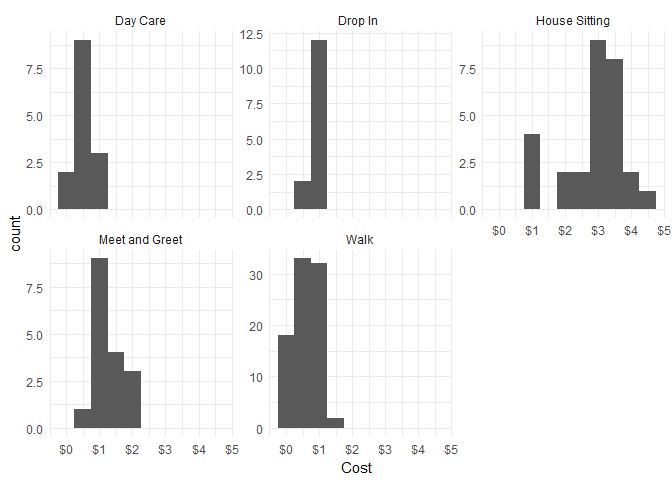
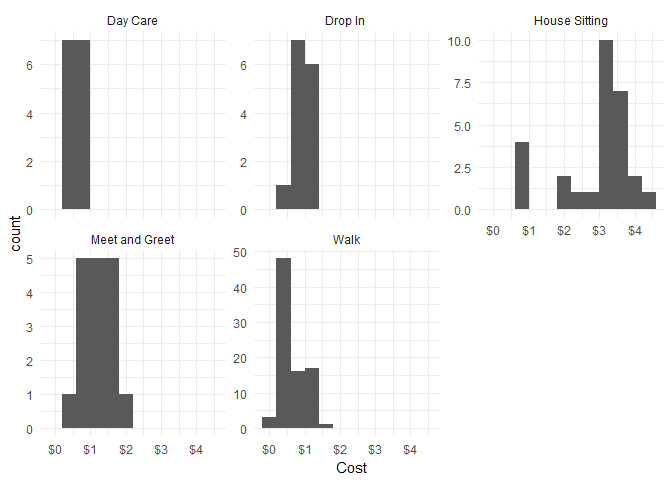
Minor adjustments to graphs

diff --git a/Mileage_with_Rover.md b/Mileage_with_Rover.md
@@ -67,7 +67,7 @@ sum(df$Cost)
 ``` r
 # histogram of cost by service type
 ggplot(aes(x = Cost), data = df) +
-  geom_histogram(binwidth = 0.5) +
+  geom_histogram(binwidth = 0.40) +
   theme_minimal() +
   scale_x_continuous(labels = dollar_format(prefix="$")) +
   facet_wrap(~Service, scales = 'free_y', ncol = 3)
